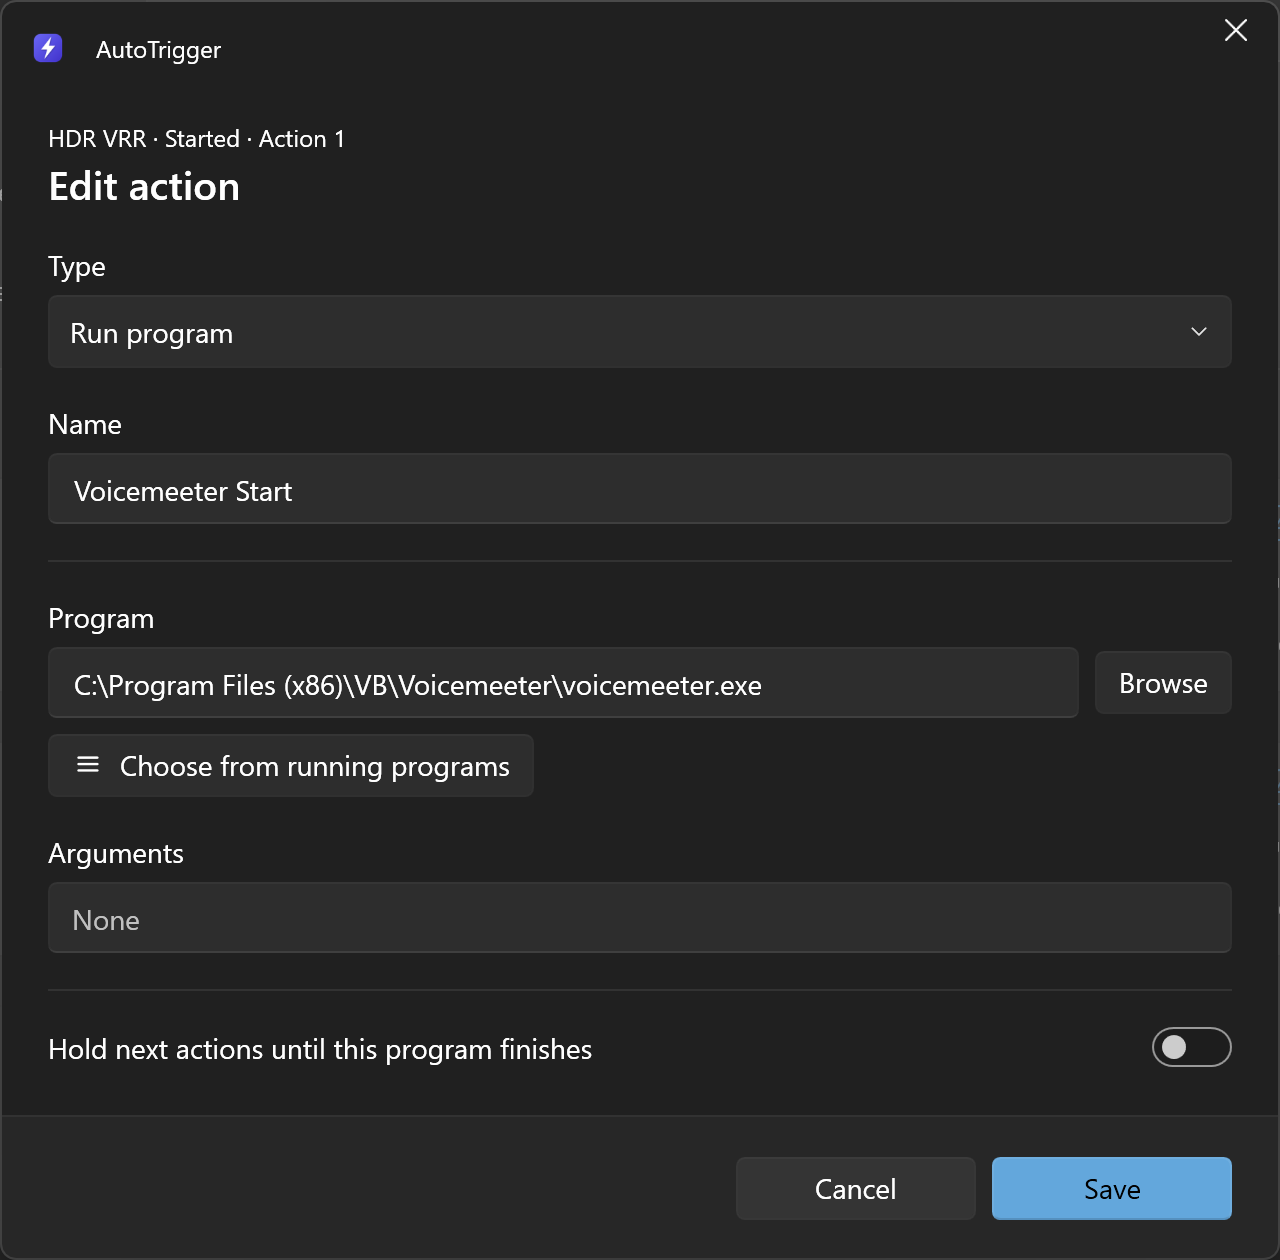
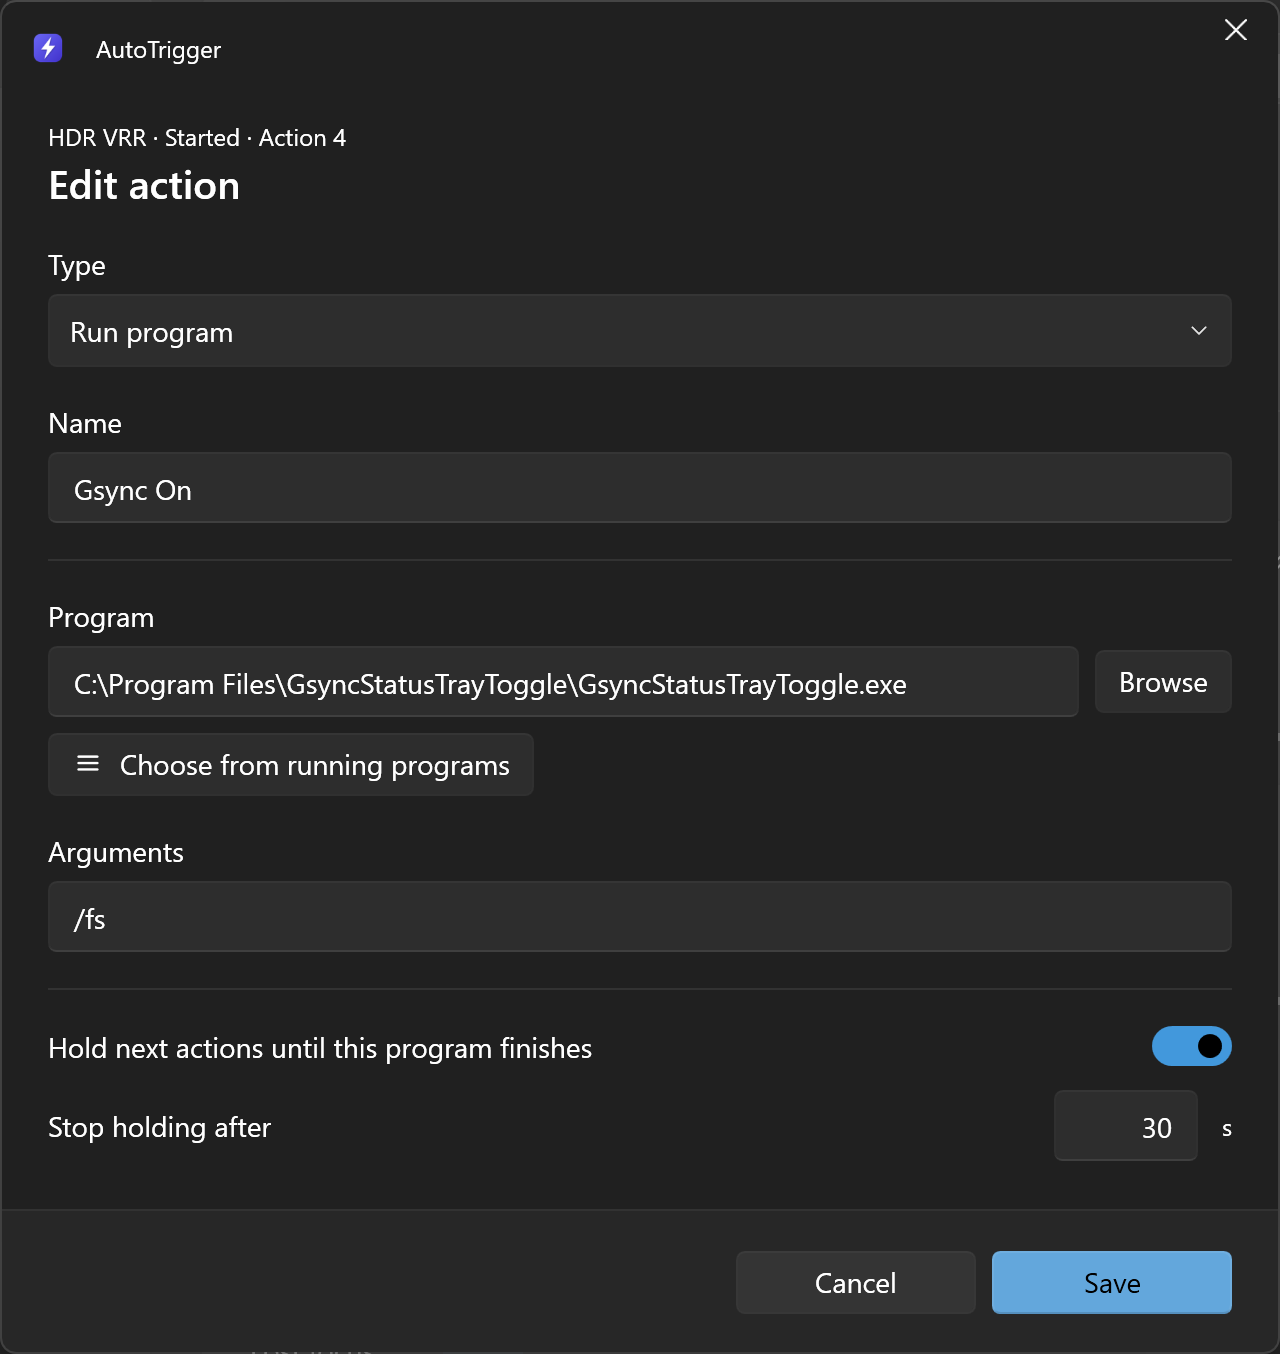
README: diagrams as images, Run program screenshot

diff --git a/README.md b/README.md
@@ -44,7 +44,7 @@ AutoTrigger is a free, open-source tray app that changes Windows settings when a
 
 <img src="images/display-action.png" width="49%" align="top" alt="Display action: HDR on or off, resolution, refresh rate, color depth, format and range"> <img src="images/windows-settings-action.png" width="49%" align="top" alt="Windows settings action: default audio devices, power plan and screen saver">
 
-<img src="images/run-program-action.png" width="49%" align="top" alt="Run program action: name, program, arguments and the option to hold the next actions until it finishes"> <img src="images/hotkey-action.png" width="49%" align="top" alt="Hotkey action: name and the keyboard shortcut to press">
+<img src="images/run-program-action.png" width="49%" align="top" alt="Run program action: name, program, arguments, and the option to hold the next actions until it finishes, with its time limit"> <img src="images/hotkey-action.png" width="49%" align="top" alt="Hotkey action: name and the keyboard shortcut to press">
 
 <img src="images/displays.png" alt="Displays page: each monitor with its resolution, refresh rate, color format and HDR state">
 
@@ -52,50 +52,15 @@ AutoTrigger is a free, open-source tray app that changes Windows settings when a
 
 ## How actions run
 
+<!-- Diagram sources are in docs/diagrams, rendered to images/ with the Mermaid CLI (mmdc), transparent background, scale 2. -->
+
 An event of an application, a keyboard shortcut or a command picks a profile; the actions of that event then run one after the other.
 
-```mermaid
-%%{init: {"theme": "base", "themeVariables": {"fontSize": "15px", "lineColor": "#8b949e", "textColor": "#8b949e", "titleColor": "#8b949e", "clusterBkg": "transparent", "clusterBorder": "#8b949e", "edgeLabelBackground": "#6e7681", "primaryTextColor": "#ffffff"}}}%%
-flowchart TB
-  app(["Application event<br/>Started, Closed, Gained focus, Lost focus"]) --> prof
-  key(["Keyboard shortcut or command line<br/>/started, /closed"]) --> prof
-  prof["Profile: the actions of that event"] --> a1
-  subgraph run ["Actions run in order"]
-    direction TB
-    a1["Display: HDR on"] -->|"delay"| ref
-    subgraph ref ["Reference profile: its actions are inserted here"]
-      direction TB
-      r1["Windows settings: audio and power plan"] --> r2["Run program, hold until it exits"]
-    end
-    ref -->|"program exited"| a3["Hotkey"] -->|"delay"| a4["Run program"]
-  end
-  classDef event fill:#8957e5,stroke:#8957e5,color:#ffffff
-  classDef profile fill:#6e7681,stroke:#6e7681,color:#ffffff
-  classDef action fill:#1f6feb,stroke:#1f6feb,color:#ffffff
-  class app,key event
-  class prof profile
-  class a1,r1,r2,a3,a4 action
-  style ref stroke-dasharray: 5 5
-```
+<img src="images/actions-flow.png" width="516" alt="How actions run: an application event (Started, Closed, Gained focus, Lost focus) or a keyboard shortcut or command line picks a profile; its actions run in order, with a delay before each one, a referenced profile inserted in place, and a Run program action that holds the next actions until it exits">
 
 When each action starts, with the delay set on each one:
 
-```mermaid
-%%{init: {"theme": "base", "gantt": {"leftPadding": 190, "barHeight": 24, "barGap": 8}, "themeVariables": {"fontSize": "14px", "textColor": "#8b949e", "titleColor": "#8b949e", "sectionBkgColor": "transparent", "altSectionBkgColor": "transparent", "sectionBkgColor2": "transparent", "gridColor": "#8b949e", "taskBkgColor": "#1f6feb", "taskBorderColor": "#1f6feb", "taskTextColor": "#ffffff", "taskTextLightColor": "#ffffff", "taskTextOutsideColor": "#8b949e", "taskTextDarkColor": "#ffffff", "activeTaskBkgColor": "#6e7681", "activeTaskBorderColor": "#6e7681", "critBkgColor": "#8957e5", "critBorderColor": "#8957e5", "todayLineColor": "transparent"}, "themeCSS": ".grid .tick line { stroke: #8b949e; opacity: 0.35; } .grid path { stroke-width: 0; }"}}%%
-gantt
-  dateFormat X
-  axisFormat %-S s
-  section Display, delay 0
-    HDR on, 2 s : a1, 0, 2s
-  section Run program, delay 3 s
-    delay 3 s : active, d1, 0, 3s
-    runs, next actions held : a2, after d1, 5s
-  section Hotkey, delay 0
-    starts when the program exits : milestone, m1, after a2, 0s
-  section Run program, delay 2 s
-    delay 2 s : active, d2, after a2, 2s
-    runs : a4, after d2, 1s
-```
+<img src="images/actions-timeline.png" width="800" alt="Timeline: HDR on takes 2 s; a Run program with a 3 s delay starts at 3 s and holds the next actions until it exits at 8 s; a Hotkey with no delay starts at 8 s; a Run program with a 2 s delay starts at 10 s">
 
 - Each action waits for the previous one to finish, and its delay counts from the start of the previous action, not from its end: above, the 3 s delay of Run program begins with HDR on, so the program starts 1 s after the 2 s display change. With a delay of 0, an action starts as soon as the previous one has finished.
 - **Hold next actions until this program finishes** makes the next actions wait for that program to exit, 30 s at most by default (**Stop holding after**). A delay that has already passed when the program exits adds nothing: the next action starts at once.
